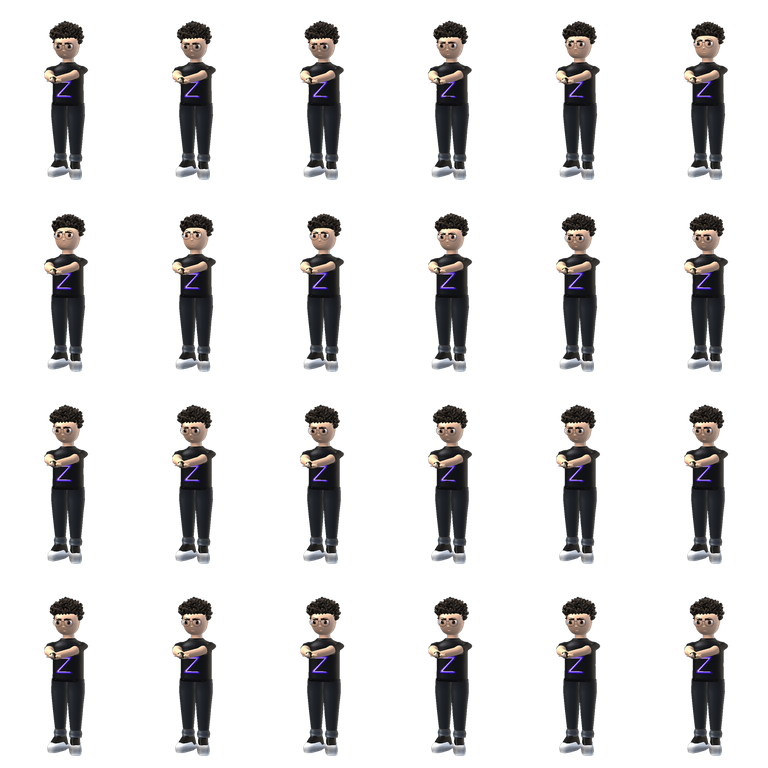
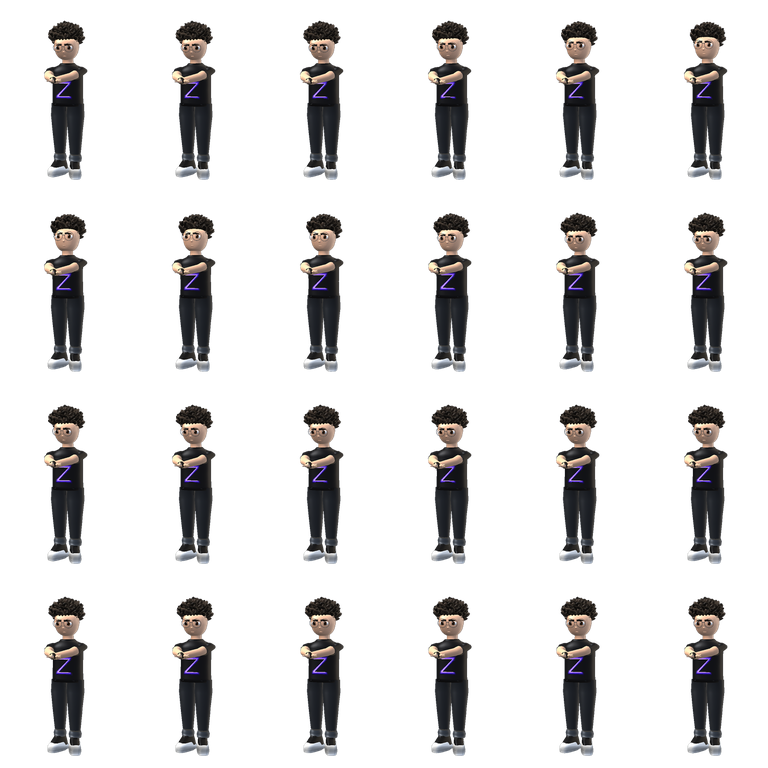
Give the mop the coverage and the mass the sheet shows
The scalp stopped at the ears, so the back of the head read as bare skin
from three-quarter and rear views. The shell now runs down to the nape,
and the curl field carries hair lower at the sides and the back than at
the front, so only the face is clear. Crown taper softened and the mass
widened, so the top peaks instead of sitting flat.

Rebaked atlases and the GLB from the same mesh.

diff --git a/tools/avatar/character.py b/tools/avatar/character.py
@@ -1151,6 +1151,8 @@ def build_hair(builder: MeshBuilder, palette, features, H, head: HeadGeometry) -
     # The scalp: a thin cap, from just above the ears up over the crown. Its front edge is the
     # hairline, so it must stay shallow at the brow and reach further at the temples.
     shell = [
+        (0.8300, 0.0560, 0.0100, 0.0620, 0.95),
+        (0.8420, 0.0592, 0.0190, 0.0648, 0.95),
         (0.856, 0.0608, 0.0280, 0.0640, 0.95),
         (0.872, 0.0636, 0.0380, 0.0672, 0.95),
         (0.888, 0.0650, 0.0470, 0.0690, 0.95),
@@ -1172,7 +1174,7 @@ def build_hair(builder: MeshBuilder, palette, features, H, head: HeadGeometry) -
 
     rng = np.random.default_rng(20240611)
     centre = np.array([0.0, H(0.893), -H(0.004)])
-    radius = np.array([H(0.0742), H(0.0640), H(0.0725)]) * volume
+    radius = np.array([H(0.0778), H(0.0672), H(0.0755)]) * volume
 
     count = max(12, int(features.hair_curls))
     for index in range(count):
@@ -1183,10 +1185,12 @@ def build_hair(builder: MeshBuilder, palette, features, H, head: HeadGeometry) -
         ny, ring = math.cos(theta), math.sin(theta)
         nx, nz = ring * math.cos(phi), ring * math.sin(phi)
         # Taper toward the crown, so the mass peaks instead of swelling into a dome.
-        crown = 1.0 - 0.80 * max(0.0, ny - 0.45) ** 1.4
+        crown = 1.0 - 0.42 * max(0.0, ny - 0.45) ** 1.3
         point = centre + np.array([nx * radius[0] * crown, ny * radius[1], nz * radius[2] * crown])
         height = point[1] / H(1.0)
-        if height < 0.845:
+        # The nape and the sides carry hair down to the ear line; the face does not.
+        floor = 0.846 if nz < -0.30 else (0.860 if abs(nz) < 0.30 else 0.872)
+        if height < floor:
             continue
         # Nothing in front of the brow, and nothing hanging over the glasses.
         if nz > 0.15 and height < 0.888:
@@ -1201,8 +1205,8 @@ def build_hair(builder: MeshBuilder, palette, features, H, head: HeadGeometry) -
         tangent = np.array([-normal[2], 0.0, normal[0]]) * (1.0 if index % 2 else -1.0)
         direction = normal * 1.0 + np.array([0.0, 0.55 + 0.5 * rng.random(), 0.0]) + tangent * (0.25 + twist * 0.4)
         direction /= np.linalg.norm(direction)
-        length = H(0.019 + 0.014 * rng.random()) * volume
-        root_r = H(0.0092 + 0.0042 * rng.random()) * volume
+        length = H(0.022 + 0.016 * rng.random()) * volume
+        root_r = H(0.0100 + 0.0048 * rng.random()) * volume
 
         path = [
             point - normal * H(0.004),

diff --git a/docs/AVATAR_PIPELINE.md b/docs/AVATAR_PIPELINE.md
@@ -52,7 +52,7 @@ before a real shoot. `tools/avatar/README.md` lists every tool and its one job.
 The authored route was built and run end to end on a CPU-only box:
 
 - **1413 triangles, 893 vertices, 21 bones (toes included), 1.715 m tall, 377 KB** for the generic
-  built-in figure, and **19,407 triangles, 11,452 vertices, 21 bones, exactly 1.800 m, 1.2 MB** for
+  built-in figure, and **19,133 triangles, 11,288 vertices, 21 bones, exactly 1.800 m, 1.2 MB** for
   Professor Z — both inside every budget in the contract, with 33 unit tests covering bone names,
   skinning reach, non-degenerate geometry, outward-facing normals, quaternion aiming, seamless loops,
   the GLB's own bytes, the photo measurements, and the authored character's height, budget,
